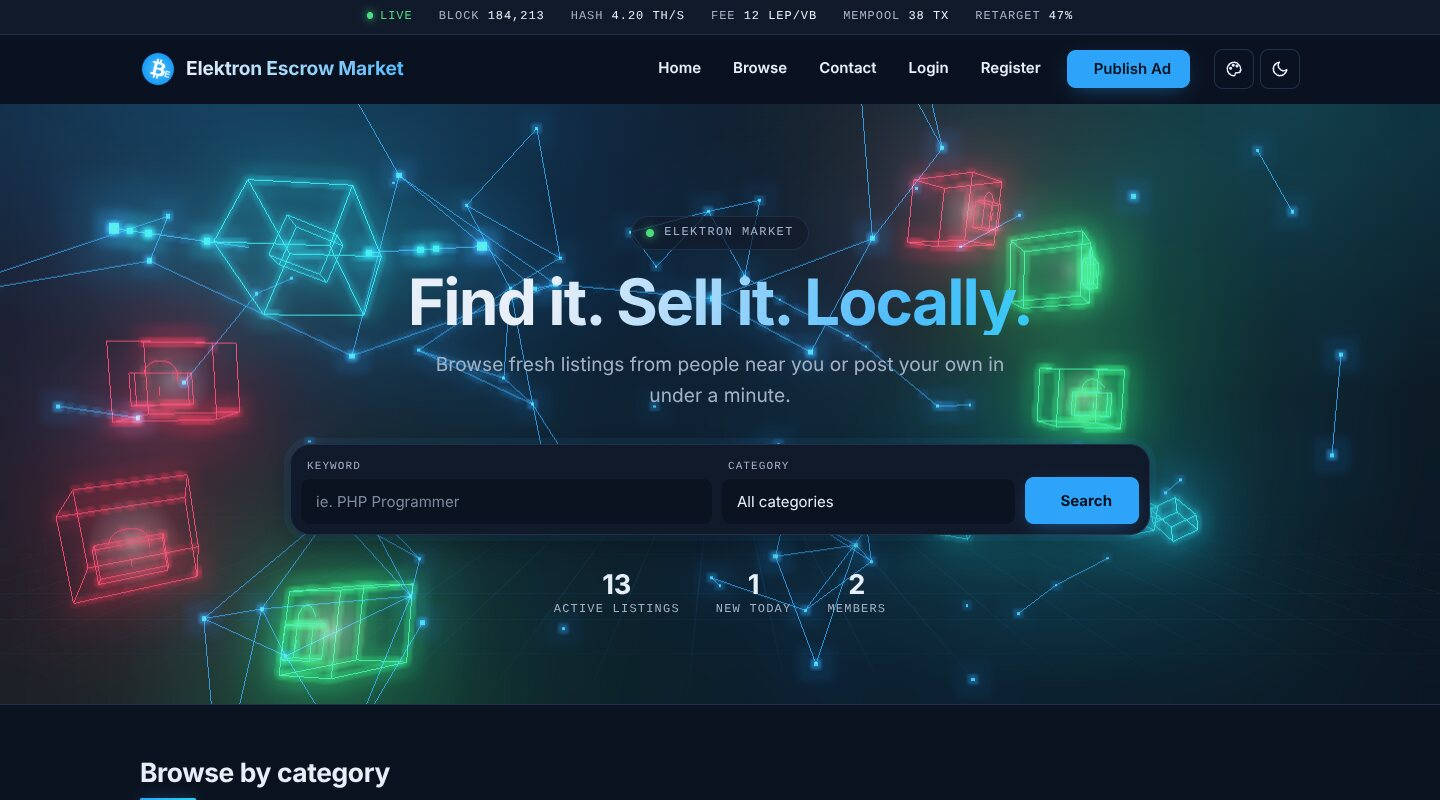
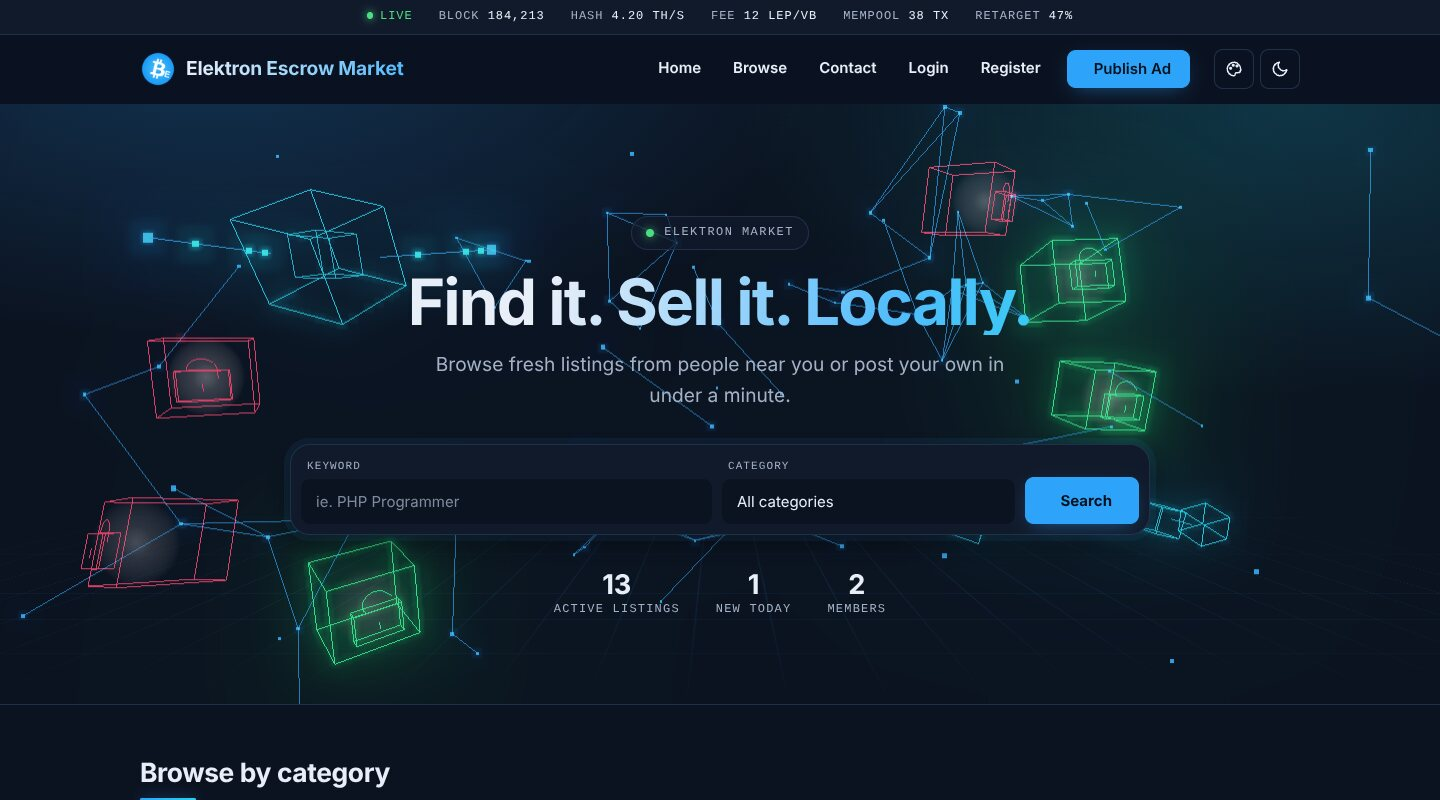
Reduce the hero glow to a subtle effect

diff --git a/osclass/osclass-elektron/js/hero-three.min.js b/osclass/osclass-elektron/js/hero-three.min.js
@@ -3997,4 +3997,4 @@ void main() {
 
 			#endif
 
-		}`};var lr=class extends Oe{constructor(){super();let t=Ql;this.uniforms=Nn.clone(t.uniforms),this.material=new Ks({name:t.name,uniforms:this.uniforms,vertexShader:t.vertexShader,fragmentShader:t.fragmentShader}),this.fsQuad=new Fn(this.material),this._outputColorSpace=null,this._toneMapping=null}render(t,e,n){this.uniforms.tDiffuse.value=n.texture,this.uniforms.toneMappingExposure.value=t.toneMappingExposure,(this._outputColorSpace!==t.outputColorSpace||this._toneMapping!==t.toneMapping)&&(this._outputColorSpace=t.outputColorSpace,this._toneMapping=t.toneMapping,this.material.defines={},qt.getTransfer(this._outputColorSpace)===Kt&&(this.material.defines.SRGB_TRANSFER=""),this._toneMapping===no?this.material.defines.LINEAR_TONE_MAPPING="":this._toneMapping===io?this.material.defines.REINHARD_TONE_MAPPING="":this._toneMapping===so?this.material.defines.CINEON_TONE_MAPPING="":this._toneMapping===ro?this.material.defines.ACES_FILMIC_TONE_MAPPING="":this._toneMapping===ao?this.material.defines.AGX_TONE_MAPPING="":this._toneMapping===oo&&(this.material.defines.NEUTRAL_TONE_MAPPING=""),this.material.needsUpdate=!0),this.renderToScreen===!0?(t.setRenderTarget(null),this.fsQuad.render(t)):(t.setRenderTarget(e),this.clear&&t.clear(t.autoClearColor,t.autoClearDepth,t.autoClearStencil),this.fsQuad.render(t))}dispose(){this.material.dispose(),this.fsQuad.dispose()}};function jl(){"use strict";var i=document.querySelector(".hero-canvas");if(!i)return;var t=document.documentElement,e=!!(window.matchMedia&&window.matchMedia("(prefers-reduced-motion: reduce)").matches),n=t.getAttribute("data-motion")!=="respect",s=e&&!n,r=e?.5:1,a=window.matchMedia&&window.matchMedia("(max-width: 720px)").matches,o;try{o=new qs({canvas:i,alpha:!0,antialias:!0,powerPreference:"low-power"})}catch(J){window.console&&console.warn("Elektron hero: WebGL unavailable",J);return}i.setAttribute("data-engine","three");var l=a?44:90,c=2.6,u=l*6,d={x:11,y:6,z:5},f=new Ys,m=new ye(55,1,.1,100);m.position.z=11;var g=new ar(o);g.addPass(new or(f,m)),g.addPass(new Ii(new zt(256,256),.7,.4,.22)),g.addPass(new lr);var v=!1;function p(J){v=J,o.setClearColor(0,J?1:0),i.setAttribute("data-bloom",J?"1":"0")}var h=new Ce;f.add(h);for(var E=new Float32Array(l*3),w=new Float32Array(l*3),M=0;M<l;M++)E[M*3]=(Math.random()-.5)*d.x*2,E[M*3+1]=(Math.random()-.5)*d.y*2,E[M*3+2]=(Math.random()-.5)*d.z*2,w[M*3]=(Math.random()-.5)*.006,w[M*3+1]=(Math.random()-.5)*.006,w[M*3+2]=(Math.random()-.5)*.006;var F=new le;F.setAttribute("position",new oe(E,3));var T=new Un({size:.12,transparent:!0,opacity:.9,depthWrite:!1,blending:Ye});h.add(new Kn(F,T));var A=new Float32Array(u*6),D=new le;D.setAttribute("position",new oe(A,3)),D.setDrawRange(0,0);var S=new nn({transparent:!0,opacity:.28,depthWrite:!1,blending:Ye});h.add(new Pe(D,S));for(var y=new nn({transparent:!0,opacity:.7,depthWrite:!1}),C=new nn({transparent:!0,opacity:.45,depthWrite:!1}),G=new Ce,z=new Qn(new en(1.1,1.1,1.1)),q=a?4:6,K=[],H=0;H<q;H++){var j=new Pe(z,y);if(j.position.set((H-(q-1)/2)*2.1,Math.sin(H*.9)*.5,0),G.add(j),K.push(j),H>0){var V=K[H-1].position,lt=new le;lt.setAttribute("position",new oe(new Float32Array([V.x+.55,V.y,0,j.position.x-.55,j.position.y,0]),3)),G.add(new Pe(lt,C))}}h.add(G);var ct=new Ce,_t=[-2.7,.2,0],Ut=[2.7,.2,0],Zt=new Pe(new Qn(new en(1.5,1.5,1.5)),y),X=new Pe(new Qn(new en(.7,.7,.7)),C),tt=new Ce;tt.add(Zt),tt.add(X),ct.add(tt);var xt=new le;xt.setAttribute("position",new oe(new Float32Array(_t.concat(Ut)),3));var st=new Un({size:.42,transparent:!0,opacity:.95,depthWrite:!1,blending:Ye});ct.add(new Kn(xt,st));var Tt=new le;Tt.setAttribute("position",new oe(new Float32Array([_t[0],_t[1],0,-.85,0,0,Ut[0],Ut[1],0,.85,0,0]),3));var Rt=new nn({transparent:!0,opacity:.5,depthWrite:!1});ct.add(new Pe(Tt,Rt));var Ft=6,Qt=new Float32Array(Ft*3),Gt=new le;Gt.setAttribute("position",new oe(Qt,3));var ee=new Un({size:.26,transparent:!0,opacity:1,depthWrite:!1,blending:Ye});ct.add(new Kn(Gt,ee)),h.add(ct);var L="#ff2d4a",be="#2dff7a",Wt="#d11a36",Xt="#0f9d4a";function Et(){var J=128,nt=document.createElement("canvas");nt.width=nt.height=J;var vt=nt.getContext("2d"),it=vt.createRadialGradient(J/2,J/2,0,J/2,J/2,J/2);return it.addColorStop(0,"rgba(255,255,255,1)"),it.addColorStop(.35,"rgba(255,255,255,0.35)"),it.addColorStop(1,"rgba(255,255,255,0)"),vt.fillStyle=it,vt.fillRect(0,0,J,J),new $s(nt)}var te=Et(),wt=new nn({transparent:!0,opacity:.95,depthWrite:!1}),b=new nn({transparent:!0,opacity:.95,depthWrite:!1}),_=new Qn(new en(.6,.44,.16));function N(J,nt,vt,it){for(var It=[],Ht=0;Ht<it;Ht++){var ne=nt+(vt-nt)*Ht/it,we=nt+(vt-nt)*(Ht+1)/it;It.push(Math.cos(ne)*J,Math.sin(ne)*J,0,Math.cos(we)*J,Math.sin(we)*J,0)}var ce=new le;return ce.setAttribute("position",new oe(new Float32Array(It),3)),ce}var Z=N(.17,0,Math.PI,14);function $(J,nt){var vt=new Ce,it=new Pe(_,J);it.position.y=-.1,vt.add(it);var It=new Ce;It.add(new Pe(Z,J));var Ht=new le;Ht.setAttribute("position",new oe(new Float32Array([-.17,0,0,-.17,nt?.05:0,0,.17,0,0,.17,-.12,0]),3)),It.add(new Pe(Ht,J)),It.position.set(0,.12,0),nt&&(It.position.set(-.17,.2,0),It.rotation.z=.7,It.position.x=0),vt.add(It);var ne=new le;return ne.setAttribute("position",new oe(new Float32Array([0,-.06,.09,0,-.18,.09]),3)),vt.add(new Pe(ne,J)),vt}var W=!1,gt=[],rt=[];function mt(J){var nt=new Ce,vt=J?b:wt,it=new Pe(z,vt);nt.add(it);var It=$(vt,J);It.position.z=.62,nt.add(It);var Ht=new le;Ht.setAttribute("position",new oe(new Float32Array([0,0,.3]),3));var ne=new Un({size:3.4,map:te,transparent:!0,opacity:.5,depthWrite:!1,blending:Ye});return ne.userData={open:J},rt.push(ne),nt.add(new Kn(Ht,ne)),nt.userData={phase:Math.random()*Math.PI*2,open:J,glow:ne},gt.push(nt),h.add(nt),nt}for(var Vt={wide:[[-11.2,-2.6,-2.5,!1],[-7.6,-4.6,-3,!0],[9.8,3.4,-3,!0],[-11.4,.6,-4,!1],[7.2,5.2,-3.5,!1],[11.6,.2,-4,!0]],narrow:[[-3,6,-3],[3,5.2,-3],[-3,-6.1,-3],[3,-5.3,-3]]},Q=0;Q<Vt.wide.length;Q++)mt(Vt.wide[Q][3]);function ft(J,nt){for(var vt=0;vt<gt.length;vt++){var it=J[vt],It=gt[vt];It.visible=!!it,it&&(It.position.set(it[0],it[1],it[2]),It.scale.setScalar(nt),It.userData.baseY=it[1])}}function At(J){J>=1.25?(ct.position.set(-8.4,3.3,-3),ct.scale.setScalar(1.3),G.position.set(10.4,-3,-3),G.scale.setScalar(.66),ft(Vt.wide,1.5)):(ft(Vt.narrow,.8),ct.position.set(0,6.1,-3),ct.scale.setScalar(.55),G.position.set(0,-6.2,-3),G.scale.setScalar(.5))}function Ct(){var J=window.getComputedStyle(t),nt=new Lt(J.getPropertyValue("--pal-accent").trim()||"#2da4fa"),vt=new Lt(J.getPropertyValue("--pal-accent-2").trim()||"#22d3ee"),it=t.getAttribute("data-scheme")==="light"||!t.getAttribute("data-scheme")&&t.getAttribute("data-default-scheme")==="light";it&&(nt=new Lt(J.getPropertyValue("--pal-l-link").trim()||"#0a67b4"));var It=!it;p(It);function Ht(ce,$e,ei,Zi){ce.color.copy($e),It&&ce.color.multiplyScalar(ei),ce.opacity=Zi}Ht(T,nt,1.6,it?.75:1),Ht(S,nt,1.35,it?.35:.6),Ht(st,nt,2,1),Ht(Rt,nt,1.5,it?.5:.85),Ht(ee,vt,2.4,1),Ht(y,vt,1.5,it?.7:1),Ht(C,vt,1.3,it?.45:.8),Ht(wt,new Lt(it?Wt:L),1.7,1),Ht(b,new Lt(it?Xt:be),1.7,1),W=it;for(var ne=it?Cn:Ye,we=0;we<rt.length;we++)rt[we].blending=ne,rt[we].needsUpdate=!0;T.blending=S.blending=st.blending=ee.blending=ne,T.needsUpdate=S.needsUpdate=st.needsUpdate=ee.needsUpdate=!0}Ct(),ft(Vt.wide,1.5),new MutationObserver(function(){Ct(),s&&at(0)}).observe(t,{attributes:!0,attributeFilter:["data-scheme","data-palette"]});function pt(){var J=i.clientWidth,nt=i.clientHeight;if(!(!J||!nt)){var vt=Math.min(window.devicePixelRatio||1,a?1:1.5);o.setPixelRatio(vt),o.setSize(J,nt,!1),g.setPixelRatio(vt),g.setSize(J,nt),m.aspect=J/nt,m.updateProjectionMatrix(),At(m.aspect)}}pt(),window.ResizeObserver?new ResizeObserver(pt).observe(i):window.addEventListener("resize",pt);var Pt={x:0,y:0,tx:0,ty:0};s||window.addEventListener("pointermove",function(J){Pt.tx=(J.clientX/window.innerWidth-.5)*2,Pt.ty=(J.clientY/window.innerHeight-.5)*2},{passive:!0});function Nt(){for(var J=0,nt=c*c,vt=0;vt<l&&J<u;vt++)for(var it=vt+1;it<l&&J<u;it++){var It=E[vt*3]-E[it*3],Ht=E[vt*3+1]-E[it*3+1],ne=E[vt*3+2]-E[it*3+2];It*It+Ht*Ht+ne*ne<nt&&(A.set(E.subarray(vt*3,vt*3+3),J*6),A.set(E.subarray(it*3,it*3+3),J*6+3),J++)}D.setDrawRange(0,J*2),D.attributes.position.needsUpdate=!0}function jt(J){for(var nt=0;nt<Ft;nt++){var vt=nt%2===0,it=(J*35e-5+nt/Ft*1.7)%1,It=vt?_t[0]:Ut[0],Ht=vt?-.85:.85;Qt[nt*3]=It+(Ht-It)*it,Qt[nt*3+1]=_t[1]+(0-_t[1])*it,Qt[nt*3+2]=0}Gt.attributes.position.needsUpdate=!0}function R(J){for(var nt=J*r,vt=0;vt<l;vt++)for(var it=0;it<3;it++){var It=vt*3+it,Ht=it===0?d.x:it===1?d.y:d.z;E[It]+=w[It]*r,(E[It]>Ht||E[It]<-Ht)&&(w[It]*=-1)}F.attributes.position.needsUpdate=!0,Nt(),jt(nt),Pt.x+=(Pt.tx-Pt.x)*.04,Pt.y+=(Pt.ty-Pt.y)*.04,h.rotation.y=nt*6e-5+Pt.x*.18,h.rotation.x=Pt.y*.1;for(var ne=0;ne<K.length;ne++)K[ne].rotation.y=nt*4e-4+ne*.5,K[ne].rotation.x=nt*2e-4+ne*.3;for(var we=0;we<gt.length;we++){var ce=gt[we],$e=ce.userData.phase;ce.rotation.y=Math.sin(nt*5e-4+$e)*.7,ce.rotation.x=Math.sin(nt*4e-4+$e*1.3)*.25,ce.position.y=ce.userData.baseY+Math.sin(nt*7e-4+$e)*.25;var ei=.5+.5*Math.sin(nt*(ce.userData.open?.0016:.0027)+$e);ce.userData.glow.opacity=(W?.28:.06)+ei*(W?.3:.14)}Zt.rotation.y=nt*5e-4,Zt.rotation.x=nt*3e-4,X.rotation.y=-nt*9e-4,X.rotation.z=nt*6e-4}function at(J){R(J),v?g.render():o.render(f,m)}if(s){at(0);return}var k=0,Y=!0;function ut(J){k=0,!(!Y||document.hidden)&&(at(J),k=window.requestAnimationFrame(ut))}function ht(){k||(k=window.requestAnimationFrame(ut))}window.IntersectionObserver&&new IntersectionObserver(function(J){Y=J[0].isIntersecting,Y&&ht()}).observe(i),document.addEventListener("visibilitychange",ht),ht()}document.readyState==="loading"?document.addEventListener("DOMContentLoaded",jl):jl();})();
+		}`};var lr=class extends Oe{constructor(){super();let t=Ql;this.uniforms=Nn.clone(t.uniforms),this.material=new Ks({name:t.name,uniforms:this.uniforms,vertexShader:t.vertexShader,fragmentShader:t.fragmentShader}),this.fsQuad=new Fn(this.material),this._outputColorSpace=null,this._toneMapping=null}render(t,e,n){this.uniforms.tDiffuse.value=n.texture,this.uniforms.toneMappingExposure.value=t.toneMappingExposure,(this._outputColorSpace!==t.outputColorSpace||this._toneMapping!==t.toneMapping)&&(this._outputColorSpace=t.outputColorSpace,this._toneMapping=t.toneMapping,this.material.defines={},qt.getTransfer(this._outputColorSpace)===Kt&&(this.material.defines.SRGB_TRANSFER=""),this._toneMapping===no?this.material.defines.LINEAR_TONE_MAPPING="":this._toneMapping===io?this.material.defines.REINHARD_TONE_MAPPING="":this._toneMapping===so?this.material.defines.CINEON_TONE_MAPPING="":this._toneMapping===ro?this.material.defines.ACES_FILMIC_TONE_MAPPING="":this._toneMapping===ao?this.material.defines.AGX_TONE_MAPPING="":this._toneMapping===oo&&(this.material.defines.NEUTRAL_TONE_MAPPING=""),this.material.needsUpdate=!0),this.renderToScreen===!0?(t.setRenderTarget(null),this.fsQuad.render(t)):(t.setRenderTarget(e),this.clear&&t.clear(t.autoClearColor,t.autoClearDepth,t.autoClearStencil),this.fsQuad.render(t))}dispose(){this.material.dispose(),this.fsQuad.dispose()}};function jl(){"use strict";var i=document.querySelector(".hero-canvas");if(!i)return;var t=document.documentElement,e=!!(window.matchMedia&&window.matchMedia("(prefers-reduced-motion: reduce)").matches),n=t.getAttribute("data-motion")!=="respect",s=e&&!n,r=e?.5:1,a=window.matchMedia&&window.matchMedia("(max-width: 720px)").matches,o;try{o=new qs({canvas:i,alpha:!0,antialias:!0,powerPreference:"low-power"})}catch(J){window.console&&console.warn("Elektron hero: WebGL unavailable",J);return}i.setAttribute("data-engine","three");var l=a?44:90,c=2.6,u=l*6,d={x:11,y:6,z:5},f=new Ys,m=new ye(55,1,.1,100);m.position.z=11;var g=new ar(o);g.addPass(new or(f,m)),g.addPass(new Ii(new zt(256,256),.32,.3,.45)),g.addPass(new lr);var v=!1;function p(J){v=J,o.setClearColor(0,J?1:0),i.setAttribute("data-bloom",J?"1":"0")}var h=new Ce;f.add(h);for(var E=new Float32Array(l*3),w=new Float32Array(l*3),M=0;M<l;M++)E[M*3]=(Math.random()-.5)*d.x*2,E[M*3+1]=(Math.random()-.5)*d.y*2,E[M*3+2]=(Math.random()-.5)*d.z*2,w[M*3]=(Math.random()-.5)*.006,w[M*3+1]=(Math.random()-.5)*.006,w[M*3+2]=(Math.random()-.5)*.006;var F=new le;F.setAttribute("position",new oe(E,3));var T=new Un({size:.12,transparent:!0,opacity:.9,depthWrite:!1,blending:Ye});h.add(new Kn(F,T));var A=new Float32Array(u*6),D=new le;D.setAttribute("position",new oe(A,3)),D.setDrawRange(0,0);var S=new nn({transparent:!0,opacity:.28,depthWrite:!1,blending:Ye});h.add(new Pe(D,S));for(var y=new nn({transparent:!0,opacity:.7,depthWrite:!1}),C=new nn({transparent:!0,opacity:.45,depthWrite:!1}),G=new Ce,z=new Qn(new en(1.1,1.1,1.1)),q=a?4:6,K=[],H=0;H<q;H++){var j=new Pe(z,y);if(j.position.set((H-(q-1)/2)*2.1,Math.sin(H*.9)*.5,0),G.add(j),K.push(j),H>0){var V=K[H-1].position,lt=new le;lt.setAttribute("position",new oe(new Float32Array([V.x+.55,V.y,0,j.position.x-.55,j.position.y,0]),3)),G.add(new Pe(lt,C))}}h.add(G);var ct=new Ce,_t=[-2.7,.2,0],Ut=[2.7,.2,0],Zt=new Pe(new Qn(new en(1.5,1.5,1.5)),y),X=new Pe(new Qn(new en(.7,.7,.7)),C),tt=new Ce;tt.add(Zt),tt.add(X),ct.add(tt);var xt=new le;xt.setAttribute("position",new oe(new Float32Array(_t.concat(Ut)),3));var st=new Un({size:.42,transparent:!0,opacity:.95,depthWrite:!1,blending:Ye});ct.add(new Kn(xt,st));var Tt=new le;Tt.setAttribute("position",new oe(new Float32Array([_t[0],_t[1],0,-.85,0,0,Ut[0],Ut[1],0,.85,0,0]),3));var Rt=new nn({transparent:!0,opacity:.5,depthWrite:!1});ct.add(new Pe(Tt,Rt));var Ft=6,Qt=new Float32Array(Ft*3),Gt=new le;Gt.setAttribute("position",new oe(Qt,3));var ee=new Un({size:.26,transparent:!0,opacity:1,depthWrite:!1,blending:Ye});ct.add(new Kn(Gt,ee)),h.add(ct);var L="#ff2d4a",be="#2dff7a",Wt="#d11a36",Xt="#0f9d4a";function Et(){var J=128,nt=document.createElement("canvas");nt.width=nt.height=J;var vt=nt.getContext("2d"),it=vt.createRadialGradient(J/2,J/2,0,J/2,J/2,J/2);return it.addColorStop(0,"rgba(255,255,255,1)"),it.addColorStop(.35,"rgba(255,255,255,0.35)"),it.addColorStop(1,"rgba(255,255,255,0)"),vt.fillStyle=it,vt.fillRect(0,0,J,J),new $s(nt)}var te=Et(),wt=new nn({transparent:!0,opacity:.95,depthWrite:!1}),b=new nn({transparent:!0,opacity:.95,depthWrite:!1}),_=new Qn(new en(.6,.44,.16));function N(J,nt,vt,it){for(var It=[],Ht=0;Ht<it;Ht++){var ne=nt+(vt-nt)*Ht/it,we=nt+(vt-nt)*(Ht+1)/it;It.push(Math.cos(ne)*J,Math.sin(ne)*J,0,Math.cos(we)*J,Math.sin(we)*J,0)}var ce=new le;return ce.setAttribute("position",new oe(new Float32Array(It),3)),ce}var Z=N(.17,0,Math.PI,14);function $(J,nt){var vt=new Ce,it=new Pe(_,J);it.position.y=-.1,vt.add(it);var It=new Ce;It.add(new Pe(Z,J));var Ht=new le;Ht.setAttribute("position",new oe(new Float32Array([-.17,0,0,-.17,nt?.05:0,0,.17,0,0,.17,-.12,0]),3)),It.add(new Pe(Ht,J)),It.position.set(0,.12,0),nt&&(It.position.set(-.17,.2,0),It.rotation.z=.7,It.position.x=0),vt.add(It);var ne=new le;return ne.setAttribute("position",new oe(new Float32Array([0,-.06,.09,0,-.18,.09]),3)),vt.add(new Pe(ne,J)),vt}var W=!1,gt=[],rt=[];function mt(J){var nt=new Ce,vt=J?b:wt,it=new Pe(z,vt);nt.add(it);var It=$(vt,J);It.position.z=.62,nt.add(It);var Ht=new le;Ht.setAttribute("position",new oe(new Float32Array([0,0,.3]),3));var ne=new Un({size:3.4,map:te,transparent:!0,opacity:.5,depthWrite:!1,blending:Ye});return ne.userData={open:J},rt.push(ne),nt.add(new Kn(Ht,ne)),nt.userData={phase:Math.random()*Math.PI*2,open:J,glow:ne},gt.push(nt),h.add(nt),nt}for(var Vt={wide:[[-11.2,-2.6,-2.5,!1],[-7.6,-4.6,-3,!0],[9.8,3.4,-3,!0],[-11.4,.6,-4,!1],[7.2,5.2,-3.5,!1],[11.6,.2,-4,!0]],narrow:[[-3,6,-3],[3,5.2,-3],[-3,-6.1,-3],[3,-5.3,-3]]},Q=0;Q<Vt.wide.length;Q++)mt(Vt.wide[Q][3]);function ft(J,nt){for(var vt=0;vt<gt.length;vt++){var it=J[vt],It=gt[vt];It.visible=!!it,it&&(It.position.set(it[0],it[1],it[2]),It.scale.setScalar(nt),It.userData.baseY=it[1])}}function At(J){J>=1.25?(ct.position.set(-8.4,3.3,-3),ct.scale.setScalar(1.3),G.position.set(10.4,-3,-3),G.scale.setScalar(.66),ft(Vt.wide,1.5)):(ft(Vt.narrow,.8),ct.position.set(0,6.1,-3),ct.scale.setScalar(.55),G.position.set(0,-6.2,-3),G.scale.setScalar(.5))}function Ct(){var J=window.getComputedStyle(t),nt=new Lt(J.getPropertyValue("--pal-accent").trim()||"#2da4fa"),vt=new Lt(J.getPropertyValue("--pal-accent-2").trim()||"#22d3ee"),it=t.getAttribute("data-scheme")==="light"||!t.getAttribute("data-scheme")&&t.getAttribute("data-default-scheme")==="light";it&&(nt=new Lt(J.getPropertyValue("--pal-l-link").trim()||"#0a67b4"));var It=!it;p(It);function Ht(ce,$e,ei,Zi){ce.color.copy($e),It&&ce.color.multiplyScalar(ei),ce.opacity=Zi}Ht(T,nt,1.15,it?.75:1),Ht(S,nt,1,it?.35:.6),Ht(st,nt,1.5,1),Ht(Rt,nt,1.1,it?.5:.85),Ht(ee,vt,1.8,1),Ht(y,vt,1.1,it?.7:1),Ht(C,vt,1,it?.45:.8),Ht(wt,new Lt(it?Wt:L),1.7,1),Ht(b,new Lt(it?Xt:be),1.35,1),W=it;for(var ne=it?Cn:Ye,we=0;we<rt.length;we++)rt[we].blending=ne,rt[we].needsUpdate=!0;T.blending=S.blending=st.blending=ee.blending=ne,T.needsUpdate=S.needsUpdate=st.needsUpdate=ee.needsUpdate=!0}Ct(),ft(Vt.wide,1.5),new MutationObserver(function(){Ct(),s&&at(0)}).observe(t,{attributes:!0,attributeFilter:["data-scheme","data-palette"]});function pt(){var J=i.clientWidth,nt=i.clientHeight;if(!(!J||!nt)){var vt=Math.min(window.devicePixelRatio||1,a?1:1.5);o.setPixelRatio(vt),o.setSize(J,nt,!1),g.setPixelRatio(vt),g.setSize(J,nt),m.aspect=J/nt,m.updateProjectionMatrix(),At(m.aspect)}}pt(),window.ResizeObserver?new ResizeObserver(pt).observe(i):window.addEventListener("resize",pt);var Pt={x:0,y:0,tx:0,ty:0};s||window.addEventListener("pointermove",function(J){Pt.tx=(J.clientX/window.innerWidth-.5)*2,Pt.ty=(J.clientY/window.innerHeight-.5)*2},{passive:!0});function Nt(){for(var J=0,nt=c*c,vt=0;vt<l&&J<u;vt++)for(var it=vt+1;it<l&&J<u;it++){var It=E[vt*3]-E[it*3],Ht=E[vt*3+1]-E[it*3+1],ne=E[vt*3+2]-E[it*3+2];It*It+Ht*Ht+ne*ne<nt&&(A.set(E.subarray(vt*3,vt*3+3),J*6),A.set(E.subarray(it*3,it*3+3),J*6+3),J++)}D.setDrawRange(0,J*2),D.attributes.position.needsUpdate=!0}function jt(J){for(var nt=0;nt<Ft;nt++){var vt=nt%2===0,it=(J*35e-5+nt/Ft*1.7)%1,It=vt?_t[0]:Ut[0],Ht=vt?-.85:.85;Qt[nt*3]=It+(Ht-It)*it,Qt[nt*3+1]=_t[1]+(0-_t[1])*it,Qt[nt*3+2]=0}Gt.attributes.position.needsUpdate=!0}function R(J){for(var nt=J*r,vt=0;vt<l;vt++)for(var it=0;it<3;it++){var It=vt*3+it,Ht=it===0?d.x:it===1?d.y:d.z;E[It]+=w[It]*r,(E[It]>Ht||E[It]<-Ht)&&(w[It]*=-1)}F.attributes.position.needsUpdate=!0,Nt(),jt(nt),Pt.x+=(Pt.tx-Pt.x)*.04,Pt.y+=(Pt.ty-Pt.y)*.04,h.rotation.y=nt*6e-5+Pt.x*.18,h.rotation.x=Pt.y*.1;for(var ne=0;ne<K.length;ne++)K[ne].rotation.y=nt*4e-4+ne*.5,K[ne].rotation.x=nt*2e-4+ne*.3;for(var we=0;we<gt.length;we++){var ce=gt[we],$e=ce.userData.phase;ce.rotation.y=Math.sin(nt*5e-4+$e)*.7,ce.rotation.x=Math.sin(nt*4e-4+$e*1.3)*.25,ce.position.y=ce.userData.baseY+Math.sin(nt*7e-4+$e)*.25;var ei=.5+.5*Math.sin(nt*(ce.userData.open?.0016:.0027)+$e);ce.userData.glow.opacity=(W?.28:.03)+ei*(W?.3:.08)}Zt.rotation.y=nt*5e-4,Zt.rotation.x=nt*3e-4,X.rotation.y=-nt*9e-4,X.rotation.z=nt*6e-4}function at(J){R(J),v?g.render():o.render(f,m)}if(s){at(0);return}var k=0,Y=!0;function ut(J){k=0,!(!Y||document.hidden)&&(at(J),k=window.requestAnimationFrame(ut))}function ht(){k||(k=window.requestAnimationFrame(ut))}window.IntersectionObserver&&new IntersectionObserver(function(J){Y=J[0].isIntersecting,Y&&ht()}).observe(i),document.addEventListener("visibilitychange",ht),ht()}document.readyState==="loading"?document.addEventListener("DOMContentLoaded",jl):jl();})();

diff --git a/osclass/osclass-elektron/js/src/hero-three.js b/osclass/osclass-elektron/js/src/hero-three.js
@@ -59,7 +59,7 @@ function init() {
   // Bloom makes every bright line, point and padlock glow in its own color (dark scheme only)
   var composer = new EffectComposer(renderer);
   composer.addPass(new RenderPass(scene, camera));
-  composer.addPass(new UnrealBloomPass(new Vector2(256, 256), 0.7, 0.4, 0.22));
+  composer.addPass(new UnrealBloomPass(new Vector2(256, 256), 0.32, 0.3, 0.45));
   composer.addPass(new OutputPass());
   var bloomOn = false;
 
@@ -304,15 +304,15 @@ function init() {
       }
       material.opacity = opacity;
     }
-    tint(pointMaterial, accent, 1.6, light ? 0.75 : 1);
-    tint(lineMaterial, accent, 1.35, light ? 0.35 : 0.6);
-    tint(partyMaterial, accent, 2.0, 1);
-    tint(pathMaterial, accent, 1.5, light ? 0.5 : 0.85);
-    tint(pulseMaterial, second, 2.4, 1);
-    tint(accent2Line, second, 1.5, light ? 0.7 : 1);
-    tint(accent2Soft, second, 1.3, light ? 0.45 : 0.8);
+    tint(pointMaterial, accent, 1.15, light ? 0.75 : 1);
+    tint(lineMaterial, accent, 1.0, light ? 0.35 : 0.6);
+    tint(partyMaterial, accent, 1.5, 1);
+    tint(pathMaterial, accent, 1.1, light ? 0.5 : 0.85);
+    tint(pulseMaterial, second, 1.8, 1);
+    tint(accent2Line, second, 1.1, light ? 0.7 : 1);
+    tint(accent2Soft, second, 1.0, light ? 0.45 : 0.8);
     tint(redLine, new Color(light ? RED_LIGHT : RED), 1.7, 1);
-    tint(greenLine, new Color(light ? GREEN_LIGHT : GREEN), 1.7, 1);
+    tint(greenLine, new Color(light ? GREEN_LIGHT : GREEN), 1.35, 1);
     lockLight = light;
     var blend = light ? NormalBlending : AdditiveBlending;
     for (var gi = 0; gi < lockGlowMaterials.length; gi++) {
@@ -424,7 +424,7 @@ function init() {
       lb.rotation.x = Math.sin(time * 0.0004 + ph * 1.3) * 0.25;
       lb.position.y = lb.userData.baseY + Math.sin(time * 0.0007 + ph) * 0.25;
       var pulse = 0.5 + 0.5 * Math.sin(time * (lb.userData.open ? 0.0016 : 0.0027) + ph);
-      lb.userData.glow.opacity = (lockLight ? 0.28 : 0.06) + pulse * (lockLight ? 0.3 : 0.14);
+      lb.userData.glow.opacity = (lockLight ? 0.28 : 0.03) + pulse * (lockLight ? 0.3 : 0.08);
     }
     vaultOuter.rotation.y = time * 0.0005;
     vaultOuter.rotation.x = time * 0.0003;

diff --git a/osclass/osclass-elektron/css/style.css b/osclass/osclass-elektron/css/style.css
@@ -3581,5 +3581,5 @@ body.subdomain-navigation.sd-with-icon #subdomains-list a img {
 /* Bloom render: the canvas is opaque black and is added to the hero with screen blending */
 .hero-canvas[data-bloom="1"] {
   mix-blend-mode: screen;
-  opacity: 0.92;
+  opacity: 0.85;
 }
